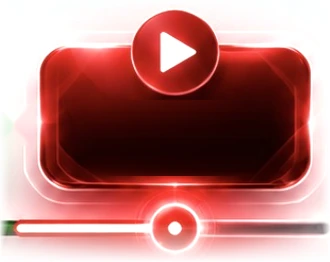
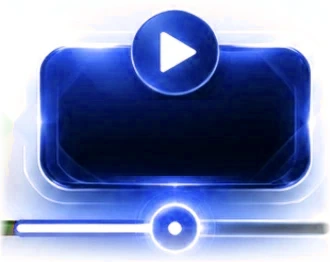
Trilha de módulos: menor no celular; atual em azul e bloqueados em vermelho
Claude-Session: https://claude.ai/code/session_01BiS7EyNpzhKpwbwB1NURPB

diff --git a/src/app/globals.css b/src/app/globals.css
@@ -5398,35 +5398,37 @@ dialog[data-testid="feedback-aula"]::backdrop { background: rgb(10 10 10 / 0.5);
 @media (prefers-reduced-motion: reduce) { .qd-opt, .qd-alt-escolhida, .qd-prog-trilho > span { animation: none; transition: none; } }
 
 /* ===== Trilha de módulos: arte do design de referência (public/aula-trilha) com texto ao vivo por cima ===== */
-.ap-paginas { display: flex; align-items: flex-start; overflow-x: auto; overflow-y: hidden; padding: 0 4px; scrollbar-width: none; margin-inline: -4px; }
+.ap-paginas { --k: .72; display: flex; align-items: flex-start; overflow-x: auto; overflow-y: hidden; padding: 0 4px; scrollbar-width: none; margin-inline: -4px; }
 .ap-paginas::-webkit-scrollbar { display: none; }
-.tr-it { position: relative; flex: none; height: 131px; background-repeat: no-repeat; background-size: 100% 100%; --nx: 50%; --n1: 61px; --n2: 79px; --cor-nome: #fff; --cor-sub: rgba(255,255,255,.92); --fs-nome: 14.5px; --fs-sub: 10.8px; }
-.tr-it[data-peca="inicio"] { width: 92.5px; background-image: url(/aula-trilha/inicio.webp); --nx: 45px; --n1: 78px; --cor-nome: #131317; --fs-nome: 14px; }
-.tr-it[data-peca="feito"] { width: 132.5px; background-image: url(/aula-trilha/feito.webp); --nx: 67px; }
-.tr-it[data-peca="atual"] { width: 165px; background-image: url(/aula-trilha/atual.webp); --nx: 87.5px; --n1: 61px; --n2: 79px; --fs-nome: 15.2px; --fs-sub: 12.5px; }
-.tr-it[data-peca="trancado"], .tr-it[data-peca="livre"] { width: 127.5px; --nx: 67.5px; --n1: 64px; --n2: 80px; --cor-nome: #101014; --cor-sub: #41444c; --fs-nome: 12.8px; --fs-sub: 10.6px; }
-.tr-it[data-peca="trancado-fim"], .tr-it[data-peca="livre-fim"] { width: 104.5px; --nx: 56px; --n1: 64px; --n2: 80px; --cor-nome: #101014; --cor-sub: #41444c; --fs-nome: 12.8px; --fs-sub: 10.6px; }
+.tr-it { position: relative; flex: none; height: calc(131px * var(--k)); background-repeat: no-repeat; background-size: 100% 100%; --nx: 50%; --n1: calc(61px * var(--k)); --n2: calc(79px * var(--k)); --cor-nome: #fff; --cor-sub: rgba(255,255,255,.92); --fs-nome: calc(14.5px * var(--k)); --fs-sub: calc(10.8px * var(--k)); }
+.tr-it[data-peca="inicio"] { width: calc(92.5px * var(--k)); background-image: url(/aula-trilha/inicio.webp); --nx: calc(45px * var(--k)); --n1: calc(78px * var(--k)); --cor-nome: #131317; --fs-nome: calc(14px * var(--k)); }
+.tr-it[data-peca="feito"] { width: calc(132.5px * var(--k)); background-image: url(/aula-trilha/feito.webp); --nx: calc(67px * var(--k)); }
+.tr-it[data-peca="atual"] { width: calc(165px * var(--k)); background-image: url(/aula-trilha/atual.webp); --nx: calc(87.5px * var(--k)); --n1: calc(61px * var(--k)); --n2: calc(79px * var(--k)); --fs-nome: calc(15.2px * var(--k)); --fs-sub: calc(12.5px * var(--k)); }
+.tr-it[data-peca="trancado"], .tr-it[data-peca="livre"] { width: calc(127.5px * var(--k)); --nx: calc(67.5px * var(--k)); --n1: calc(64px * var(--k)); --n2: calc(80px * var(--k)); --cor-nome: #101014; --cor-sub: #41444c; --fs-nome: calc(12.8px * var(--k)); --fs-sub: calc(10.6px * var(--k)); }
+.tr-it[data-peca="trancado-fim"], .tr-it[data-peca="livre-fim"] { width: calc(104.5px * var(--k)); --nx: calc(56px * var(--k)); --n1: calc(64px * var(--k)); --n2: calc(80px * var(--k)); --cor-nome: #101014; --cor-sub: #41444c; --fs-nome: calc(12.8px * var(--k)); --fs-sub: calc(10.6px * var(--k)); }
 .tr-it[data-peca="trancado"] { background-image: url(/aula-trilha/trancado.webp); }
 .tr-it[data-peca="trancado-fim"] { background-image: url(/aula-trilha/trancado-fim.webp); }
 .tr-it[data-peca="livre"] { background-image: url(/aula-trilha/livre.webp); }
 .tr-it[data-peca="livre-fim"] { background-image: url(/aula-trilha/livre-fim.webp); }
-.tr-card { position: absolute; inset: 0 0 28px 0; background: none; border: 0; padding: 0; cursor: pointer; font-family: inherit; -webkit-tap-highlight-color: transparent; border-radius: 22px; }
+.tr-card { position: absolute; inset: 0 0 calc(28px * var(--k)) 0; background: none; border: 0; padding: 0; cursor: pointer; font-family: inherit; -webkit-tap-highlight-color: transparent; border-radius: calc(22px * var(--k)); }
 .tr-card:focus-visible { outline: 2px solid #e10600; outline-offset: -6px; }
 .tr-it[data-estado="trancado"] .tr-card { cursor: not-allowed; }
 .tr-nome, .tr-sub { position: absolute; left: var(--nx); transform: translate(-50%, -50%); white-space: nowrap; line-height: 1.05; pointer-events: none; }
 .tr-nome { top: var(--n1); font-size: var(--fs-nome); font-weight: 700; letter-spacing: -.015em; color: var(--cor-nome); }
 .tr-sub { top: var(--n2); font-size: var(--fs-sub); font-weight: 500; color: var(--cor-sub); }
-.tr-it[data-estado="feito"] .tr-nome, .tr-it[data-estado="atual"] .tr-nome { text-shadow: 0 1px 6px rgba(0,0,0,.45); }
-.tr-it[data-estado="inicio"][data-atual] .tr-card { box-shadow: 0 0 0 2px #e10600, 0 0 14px rgba(255,40,30,.5); inset: 34px 4px 28px 8px; border-radius: 22px; }
-.tr-it[data-estado="inicio"][data-atual] .tr-nome { top: 44px; }
+.tr-it[data-peca="trancado"], .tr-it[data-peca="trancado-fim"] { --cor-nome: #fff; --cor-sub: rgba(255,255,255,.92); }
+.tr-it[data-estado="feito"] .tr-nome, .tr-it[data-estado="atual"] .tr-nome, .tr-it[data-estado="trancado"] .tr-nome { text-shadow: 0 1px calc(6px * var(--k)) rgba(0,0,0,.45); }
+.tr-it[data-estado="inicio"][data-atual] .tr-card { box-shadow: 0 0 0 2px #1d4ed8, 0 0 calc(14px * var(--k)) rgba(37,99,235,.5); inset: calc(34px * var(--k)) calc(4px * var(--k)) calc(28px * var(--k)) calc(8px * var(--k)); border-radius: calc(22px * var(--k)); }
+.tr-it[data-estado="inicio"][data-atual] .tr-nome { top: calc(44px * var(--k)); }
 .tr-it:active .tr-card { transform: scale(.98); }
-/* setas entre cards (cinza; vermelha logo depois do módulo atual) */
-.tr-sep { position: absolute; top: 62.5px; width: 13px; height: 13px; margin-top: -6.5px; color: #6c6d75; pointer-events: none; z-index: 2; }
+/* setas entre cards (cinza; azul logo depois do módulo atual) */
+.tr-sep { position: absolute; top: calc(62.5px * var(--k)); width: calc(13px * var(--k)); height: calc(13px * var(--k)); margin-top: calc(-6.5px * var(--k)); color: #6c6d75; pointer-events: none; z-index: 2; }
 .tr-sep svg { display: block; width: 100%; height: 100%; }
-.tr-sep[data-cor="vermelho"] { color: #e0261d; }
-.tr-it[data-peca="feito"] .tr-sep { left: -11px; }
-.tr-it[data-peca="atual"] .tr-sep { left: 0.5px; }
-.tr-it[data-peca="trancado"] .tr-sep, .tr-it[data-peca="livre"] .tr-sep, .tr-it[data-peca="trancado-fim"] .tr-sep, .tr-it[data-peca="livre-fim"] .tr-sep { left: -4px; }
-.tr-ponto { position: absolute; left: var(--nx); top: 114.5px; width: 14px; height: 14px; margin: -7px 0 0 -7px; border-radius: 50%; background: radial-gradient(circle at 50% 30%, #a3a4ab, #6f7078); box-shadow: 0 0 0 3px rgba(240,240,244,.95), 0 2px 5px rgba(0,0,0,.2); pointer-events: none; }
+.tr-sep[data-cor="azul"] { color: #2563eb; }
+.tr-it[data-peca="feito"] .tr-sep { left: calc(-11px * var(--k)); }
+.tr-it[data-peca="atual"] .tr-sep { left: calc(0.5px * var(--k)); }
+.tr-it[data-peca="trancado"] .tr-sep, .tr-it[data-peca="livre"] .tr-sep, .tr-it[data-peca="trancado-fim"] .tr-sep, .tr-it[data-peca="livre-fim"] .tr-sep { left: calc(-4px * var(--k)); }
+.tr-ponto { position: absolute; left: var(--nx); top: calc(114.5px * var(--k)); width: calc(14px * var(--k)); height: calc(14px * var(--k)); margin: calc(-7px * var(--k)) 0 0 calc(-7px * var(--k)); border-radius: 50%; background: radial-gradient(circle at 50% 30%, #a3a4ab, #6f7078); box-shadow: 0 0 0 3px rgba(240,240,244,.95), 0 2px calc(5px * var(--k)) rgba(0,0,0,.2); pointer-events: none; }
+@media (min-width: 768px) { .ap-paginas { --k: 1; } }
 @media (prefers-reduced-motion: no-preference) { .tr-it[data-estado="atual"] { animation: tr-pulsa 2.8s ease-in-out infinite; } }
 @keyframes tr-pulsa { 50% { filter: brightness(1.05) saturate(1.08); } }

diff --git a/src/app/(app)/aula/[id]/reader.tsx b/src/app/(app)/aula/[id]/reader.tsx
@@ -111,7 +111,7 @@ function Band({ children, id }: { children: ReactNode; id?: string }) {
  * início (capa, resumo do estudo e sumário), um módulo por página, questões por nível e,
  * por fim, pontos de revisão e referências. Concluir todos os módulos registra a leitura.
  */
-function TrSeta({ cor }: { cor: "cinza" | "vermelho" }) {
+function TrSeta({ cor }: { cor: "cinza" | "azul" }) {
   return (
     <span className="tr-sep" data-cor={cor} aria-hidden>
       <svg viewBox="0 0 24 24"><path d="m8.5 4.5 7.5 7.5-7.5 7.5" fill="none" stroke="currentColor" strokeWidth="4.2" strokeLinecap="round" strokeLinejoin="round" /></svg>
@@ -767,7 +767,7 @@ export function LessonReader(props: ReaderProps) {
             const peca = estado === "trancado" || estado === "livre" ? (ultimo ? `${estado}-fim` : estado) : estado;
             return (
               <div key={pageKey(p)} className="tr-it" data-estado={estado} data-peca={peca} data-atual={atual ? "1" : undefined}>
-                {i >= 2 ? <TrSeta cor={i - 1 === currentIdx ? "vermelho" : "cinza"} /> : null}
+                {i >= 2 ? <TrSeta cor={i - 1 === currentIdx ? "azul" : "cinza"} /> : null}
                 <button
                   type="button"
                   className="tr-card"
